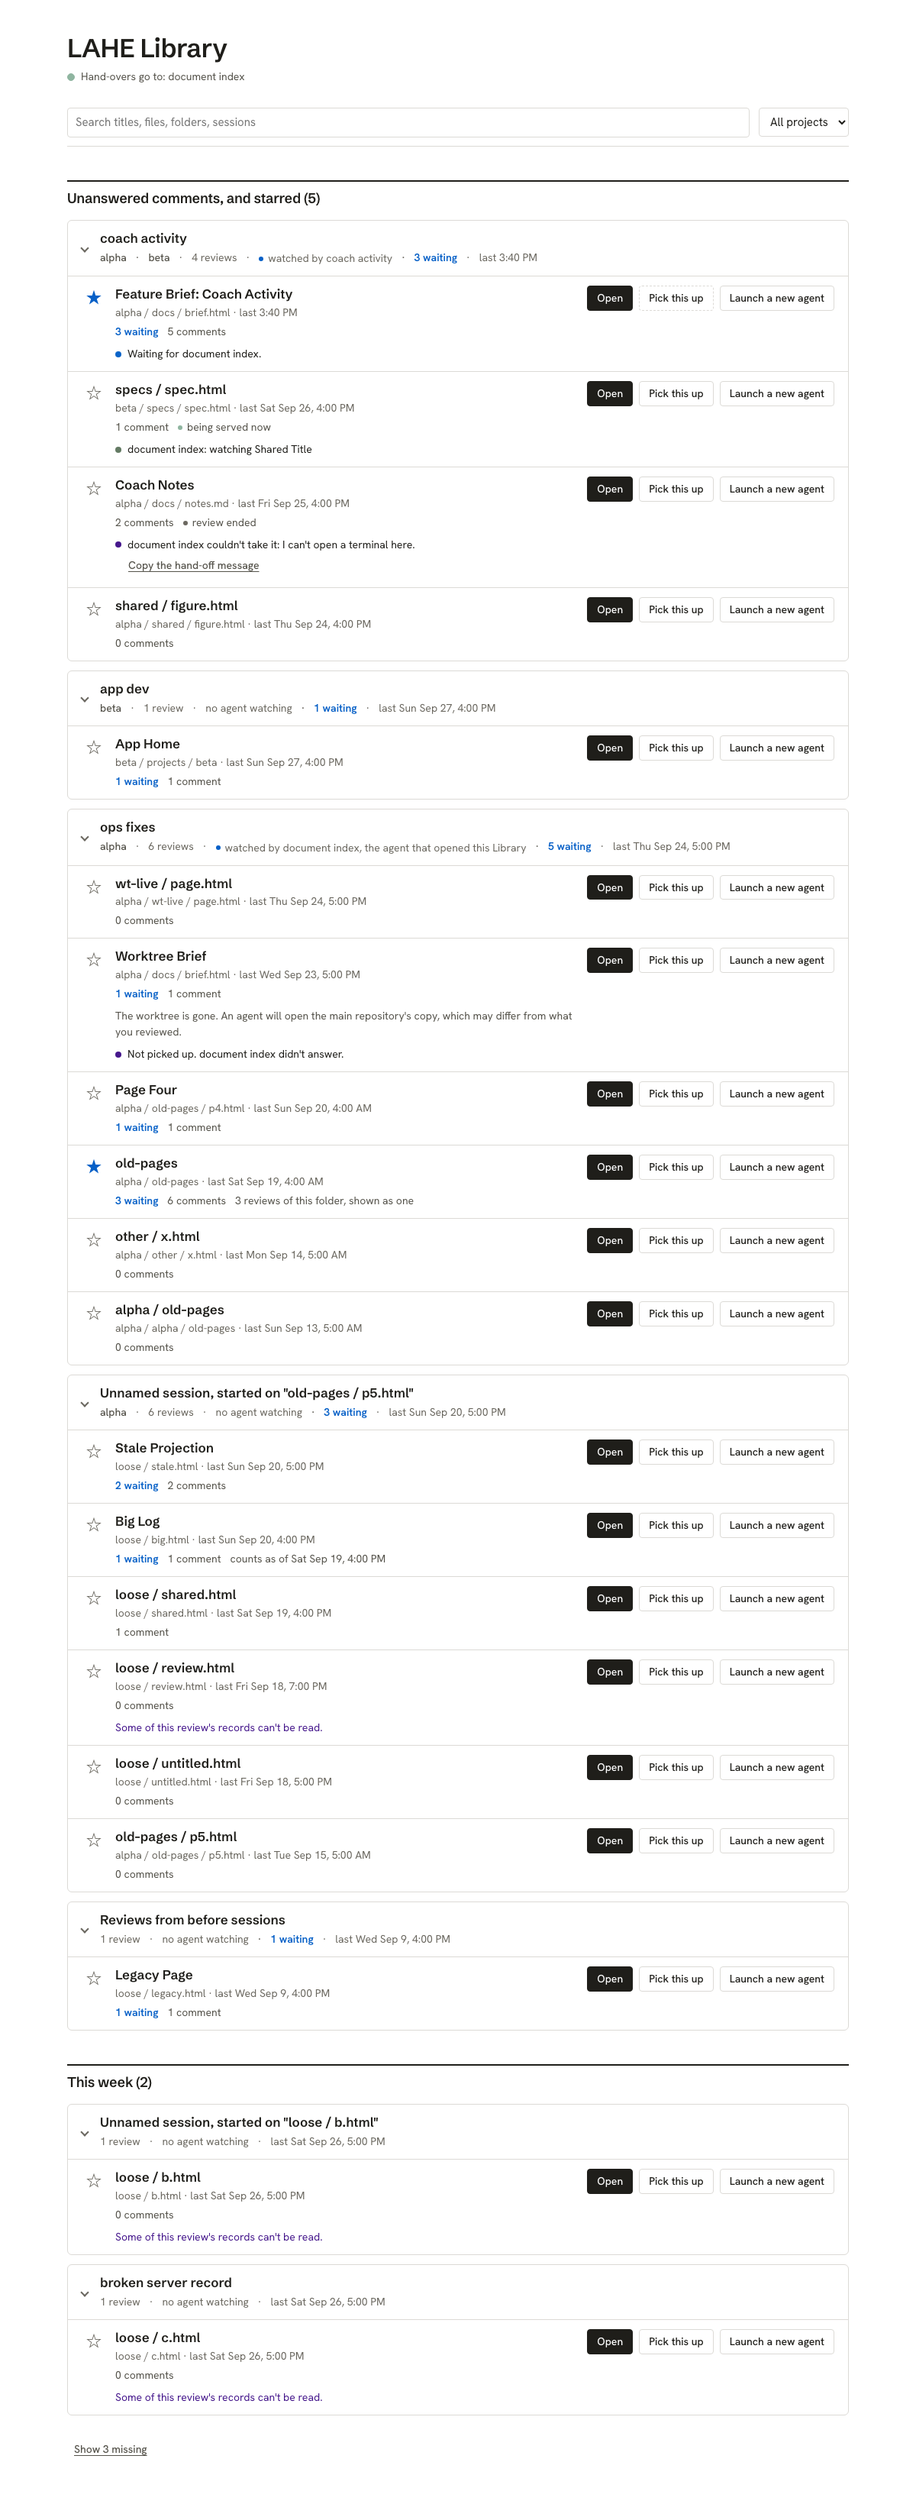
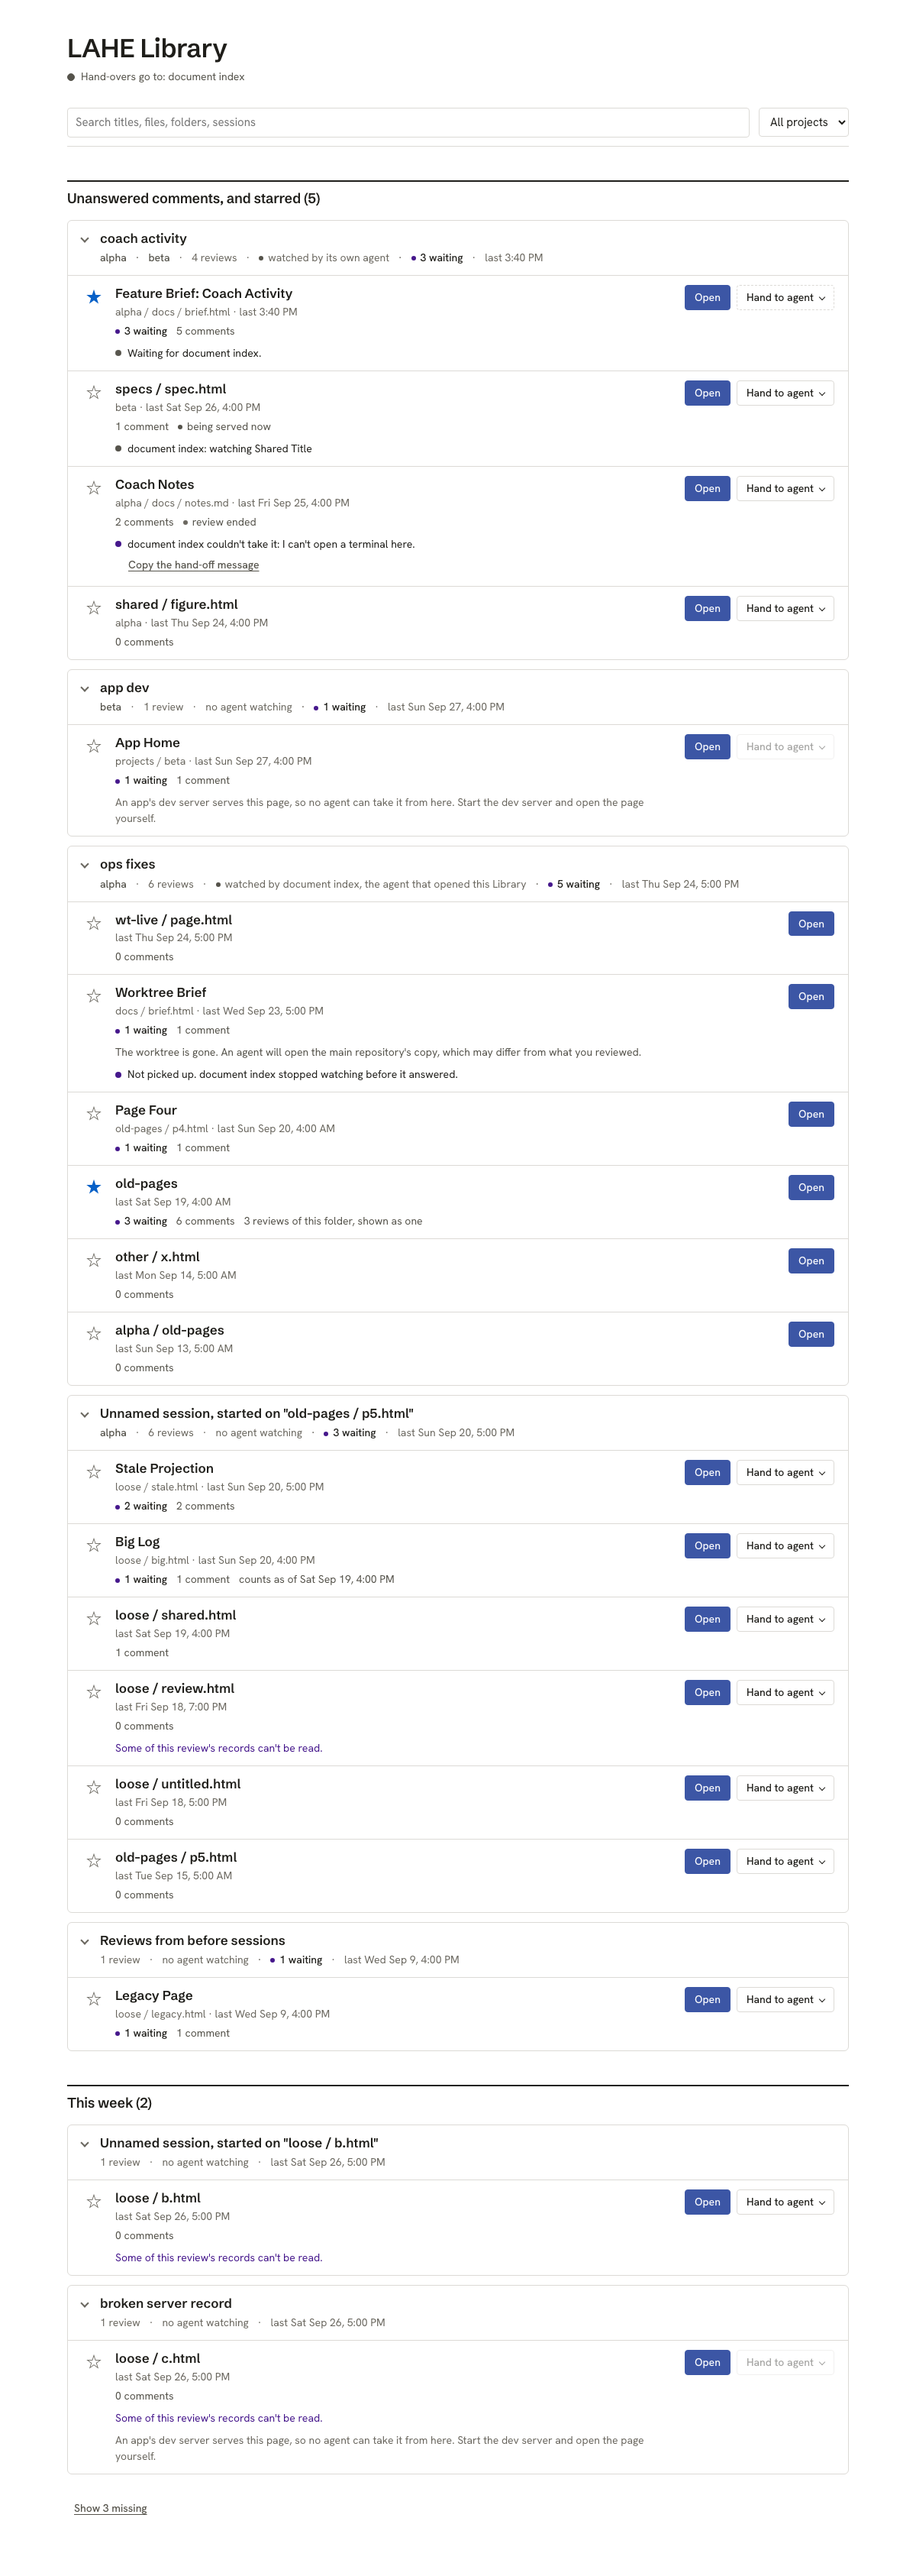
Library page: an attention color that holds up in dark; the end-to-end and cross-site specs open the Hand to agent menu; retaken screenshots and the Builder C result

diff --git a/test/browser/catalog_library.spec.js b/test/browser/catalog_library.spec.js
@@ -33,6 +33,13 @@ const { pollUntil, pollPage } = require("../helpers/poll");
 const { buildWorld, REPO_ROOT, CLI } = require("./support/catalog_world");
 
 const protocol = require("../../src/shared/protocol.js");
+
+// Pick this up sits behind the row's Hand to agent menu.
+async function pickUp(rowLocator) {
+  const menu = rowLocator.locator('[data-act="menu"]');
+  if ((await menu.getAttribute("aria-expanded")) !== "true") await menu.click();
+  await rowLocator.locator('[data-act="pickup"]').click();
+}
 const VM = require("../../src/layer/catalog/view_model.js");
 
 const SHOTS = path.join(REPO_ROOT, "docs", "features", "20260922.02_lahe_library");
@@ -234,7 +241,7 @@ test.describe("the Library, end to end, with a stub agent on the real CLI", () =
     await openLibrary(page);
     const target = row(page, world.docs.pick.review);
     refreshStubAgent();
-    await target.locator('[data-act="pickup"]').click();
+    await pickUp(target);
     await expect(target.locator(".lib-note-text")).toHaveText(fill(T.WAITING, { agent: AGENT_NAME }));
 
     const req = await requestFor(world.docs.pick.review, "pickup");
@@ -246,7 +253,7 @@ test.describe("the Library, end to end, with a stub agent on the real CLI", () =
 
     // A second click while it waits sends nothing and says so.
     refreshStubAgent();
-    await target.locator('[data-act="pickup"]').click();
+    await pickUp(target);
     await expect(target.locator(".lib-note-text")).toHaveText(fill(T.ALREADY_WAITING, { agent: AGENT_NAME }));
     expect(world.drainRequests().filter((r) => r.review === world.docs.pick.review)).toHaveLength(1);
 
@@ -266,7 +273,7 @@ test.describe("the Library, end to end, with a stub agent on the real CLI", () =
     await openLibrary(page);
     const target = row(page, world.docs.watched.review);
     refreshStubAgent();
-    await target.locator('[data-act="pickup"]').click();
+    await pickUp(target);
 
     const dialog = page.locator("#lahe-catalog-confirm");
     await expect(dialog).toBeVisible();

diff --git a/test/browser/catalog_cross_site.spec.js b/test/browser/catalog_cross_site.spec.js
@@ -49,6 +49,13 @@ const { buildWorld } = require("./support/catalog_world");
 
 const protocol = require("../../src/shared/protocol.js");
 
+// Pick this up sits behind the row's Hand to agent menu.
+async function pickUp(rowLocator) {
+  const menu = rowLocator.locator('[data-act="menu"]');
+  if ((await menu.getAttribute("aria-expanded")) !== "true") await menu.click();
+  await rowLocator.locator('[data-act="pickup"]').click();
+}
+
 test.describe.configure({ mode: "serial" });
 
 const POST_ROUTES = ["catalog.open", "catalog.star", "catalog.request"];
@@ -335,7 +342,7 @@ async function libraryStillWorks(context, starDoc) {
     await expect(row.locator('[data-act="star"]')).toHaveAttribute("aria-pressed", "true");
     expect(JSON.parse(world.catalogFileText()).stars).toHaveProperty(world.docs[starDoc].review);
 
-    await row.locator('[data-act="pickup"]').click();
+    await pickUp(row);
     await pollUntil(() => world.requestsFileText() !== before.requests, {
       message: "the real Library's pick-up to reach catalog-requests.jsonl"
     });

diff --git a/src/service/catalog_page.js b/src/service/catalog_page.js
@@ -134,7 +134,8 @@ var PAGE_STYLE = [
   "--lib-tint-warn:color-mix(in srgb,var(--purple) 45%,var(--ink));",
   "--lib-ok:var(--sage-fill);--lib-warn:color-mix(in srgb,var(--purple) 30%,var(--white));",
   "--lib-focus:var(--sage-fill);",
-  "--lib-attn:color-mix(in srgb,var(--purple) 30%,var(--white));",
+  // Saturated enough to stand apart from the quiet grey dots on a dark page.
+  "--lib-attn:color-mix(in srgb,var(--purple) 55%,#c9b6ff);--lib-dot:var(--lib-faint);",
   "--lib-primary:#93a7ea;--lib-on-primary:#12151a}}",
   "body{background:var(--lib-bg);color:var(--lib-fg);font-size:var(--text-small);line-height:1.5}",
   ":focus-visible{outline-color:var(--lib-focus)}",

diff --git a/docs/features/20260922.02_lahe_library/progress/phase7_fix_round.md b/docs/features/20260922.02_lahe_library/progress/phase7_fix_round.md
@@ -84,3 +84,75 @@ Docs: `docs/CONTRACTS.md` and `02_architecture_lahe_library.md` cover the reopen
 For Builder C: `catalog.request` can now answer `{request_id: null}` for a Pick up the agent already has. `afterRequest` in the view model currently shows "waiting" with no request id in that case.
 
 To delete at cleanup: nothing new.
+
+## Builder C result
+
+Every Builder C item is done, plus the page items the orchestrator added from the story walk and the design review. Branch `task/lib-fix-tests`, with `task/lib-fix-service` merged in.
+
+![The Library, light](../catalog_page_light.png)
+
+![The Library, dark](../catalog_page_dark.png)
+
+![A row's Hand to agent menu, open](../catalog_menu_light.png)
+
+![The confirm dialog, dark](../catalog_confirm_dark.png)
+
+![The Library at phone width](../catalog_page_phone.png)
+
+All five come from the page spec's screenshot test, run with `LAHE_SHOTS=1` on Chromium, after the spec passed.
+
+**Test counts**
+
+- `npm run gate:unit`: 1648 tests, 1646 pass, 0 fail, 2 todo (the older `anchor_cases.test.js` ones).
+- `catalog_page.spec.js`, Chromium: 18 passed, 1 skipped (the screenshot test, skipped unless `LAHE_SHOTS=1`).
+- `catalog_library.spec.js`, Chromium: 3 passed.
+- `catalog_cross_site.spec.js`: Chromium 2 passed, Firefox 2 passed, WebKit 2 passed.
+
+**The fix list**
+
+- **CR1, page side.** A click on Open marks the row as opening. Until the helper answers, the button shows busy and a second click sends nothing. Browser test: a double click, then one more click, sends one request and opens one tab.
+- **Expiry wording.** An expired row says what was lost and why:
+  - `timeout`: "Not picked up. <agent> didn't answer."
+  - `monitor_dead`: "Not picked up. <agent> stopped watching before it answered."
+  - `attach_changed`: "Not picked up. A different agent was attached before <agent> answered."
+  - A launch starts with "No new agent was launched." instead, and offers the hand-off message so the reader can start one by hand.
+- **T1.** New test: the helper's own sweep closes the reopened session, the Library lists, and the last `session close` prints "left running: the Library page polled it" while health still answers. It waits for the sweep's real tick, so it takes about 15 seconds.
+- **T2.** The worktree candidate's owner check is tested. The reader has no `uid` option and my edits stay out of service files, so the test swaps `process.getuid` for the length of the test. I proved it fails with the check removed.
+- **T3.** The end-to-end spec refreshes the stub agent's activity at the top of each test and before each hand-over click.
+- **T4.** Every "nothing was sent" check records requests with `page.on("request")` and runs one more poll before counting.
+- **T5.** The 501 allowances are gone. `catalog_auth.test.js` now builds a review that every handler accepts, and requires 200 from all four routes.
+- **T6.** Screenshots are written only with `LAHE_SHOTS=1`, and only on Chromium, in both specs.
+- **T7.** The queue test pins the boundary: a heartbeat exactly `HEARTBEAT_FRESH_MS` old is still fresh.
+- **T8.** With a torn last line, or a bad complete line, both `lahe status --json` and the reader's list still return the pending request.
+- **T9.** The top section's session ids are spelled out in the test.
+- **T10.** The cross-site control reads `catalog_seen_at` before the page loads and asserts it moved.
+- **T11.** New `test/helpers/free_port.js`. A helper start whose port another test took is retried once on a new port, but only when the old port really is held. The two reuse-old-port tests accept a new port only when a holder has the old one.
+- **T12.** A separate test parses the contract out of `docs/CONTRACTS.md` and compares it with the test's copy and the module. The restated array is untouched. I proved it fails on a one-word change to the doc.
+- **T13.** The token-leak scan now includes one successful Open, so the static server's records are scanned too.
+- **SEC3.** The other-port test registers the attacker's origin on a review, and checks that a review route's preflight is then approved. For each POST route it then waits for `refused preflight: catalog path` in the log.
+
+**Added by the orchestrator**
+
+- **Header.** When the attached session is closed, the header says "No agent attached". The view model reads `attached.closed`. **Builder B: the list does not send `closed` yet.** Until it does, a closed attached session still reads as "stopped watching".
+- **Hand to agent.** Each row shows Open, plus one "Hand to agent" menu that holds Pick this up and Launch.
+  - The menu is hidden where the Library's own agent already watches the session.
+  - On a dev-server row the menu is disabled, and the row says why.
+  - Escape closes the menu. A poll does not close it.
+- **Refusals.** A "couldn't take it" note clears once the agent that refused is no longer the attached, live agent.
+- **Pick this up answered with `request_id: null`.** The row says "<agent> already has it. Nothing was sent." It no longer says it is waiting.
+- **Watcher label.** When the watcher's name equals the card's title, the card says "watched by its own agent".
+- **Path line.** The line under a row's title shows only what the title and the card do not already say.
+- **Design.**
+  - Two status colors: attention (waiting on you, refused, needs an agent) and quiet. Every dot has a word beside it. "3 waiting" is plain text with an attention dot, so it no longer looks like a link.
+  - Open uses the rail's primary color, in light and dark.
+  - The dialog's backdrop is darker in both schemes. Its list keeps the bullet beside the text.
+  - At phone width the page does not scroll sideways, meta items wrap whole with no stray separators, and the chevron sits on the title's line. A browser test checks all three.
+
+**Changes from the brief**
+
+- The shared fixture `test/fixtures/catalog_list.json` is generated by the reader, so I did not edit it. It comes from Builder B's branch, whose regenerated copy carries `reason: "monitor_dead"`. The view-model tests set their own reasons on copies of it.
+- Design CSS lives in `src/service/catalog_page.js` (`PAGE_STYLE`), which is outside `src/layer/catalog/`. I changed only `PAGE_STYLE`. Builder A's content-policy change is in the same file but not in the same lines.
+
+**To delete at cleanup**
+
+- `node_modules` in this worktree: a symlink to the main checkout's, never committed.
